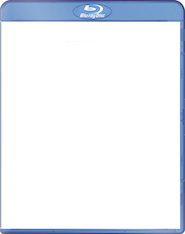
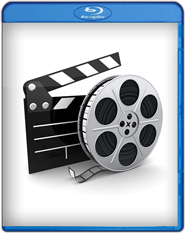
some styling changes

diff --git a/app/assets/javascripts/movies/movies.html b/app/assets/javascripts/movies/movies.html
@@ -5,12 +5,13 @@
     <div ng-repeat="movie in row" class="col-md-3">
         <div class="thumbnail movie">
             <a href="#/movies/{{ movie.name }}">
-                <img ng-if="movie.details.poster_path !== undefined"
+                <img ng-if="movie.details.poster_path !== undefined && movie.details.poster_path != null"
                      ng-src="/images/w185/{{ movie.details.poster_path }}"/>
-                <img ng-if="movie.details.poster_path === undefined" src="/assets/images/blank_cover.png"/>
+                <img ng-if="movie.details.poster_path === undefined || movie.details.poster_path == null"
+                     src="/assets/images/blank_cover.png" class="movie-placeholder"/>
             </a>
 
-            <div class="caption">{{ movie.name }}</div>
+            <div class="caption movie-caption">{{ movie.details.title || movie.name }}</div>
         </div>
 
     </div>

diff --git a/app/assets/javascripts/movies/movie-details.html b/app/assets/javascripts/movies/movie-details.html
@@ -1,13 +1,17 @@
+<!--
 <ol class="breadcrumb">
     <li><a href="/#">Home</a></li>
     <li><a href="/#/movies">Filme</a></li>
     <li class="active">{{ movie.name}}</li>
 </ol>
-
-<div class="row">
+-->
+<div class="row movie-details">
     <div class="col-md-4">
-        <img ng-if="movie.details.poster_path !== undefined"
+        <img ng-if="movie.details.poster_path !== undefined && movie.details.poster_path != null"
              ng-src="/images/w342/{{ movie.details.poster_path }}"/>
+
+        <img ng-if="movie.details.poster_path === undefined || movie.details.poster_path === null"
+             ng-src="/assets/images/movie-film-roll.jpg"/>
     </div>
     <div class="col-md-8">
         <h3>{{ movie.name}}</h3>
@@ -21,4 +25,4 @@
     </div>
 </div>
 
-<div class="movie-details">{{ movie.details.overview}}</div>
+<div class="movie-description">{{ movie.details.overview}}</div>

diff --git a/app/assets/stylesheets/main.less b/app/assets/stylesheets/main.less
@@ -46,6 +46,18 @@ body {
   height: 340px;
 }
 
-.movie-details {
-  margin-top: 15px;
+.row.movie-details {
+  margin-top: 30px;
+}
+
+.movie-description {
+  margin-top: 20px;
+}
+
+.movie-caption {
+  word-wrap: break-word;
+}
+
+img.movie-placeholder {
+  margin-bottom: 45px;
 }
